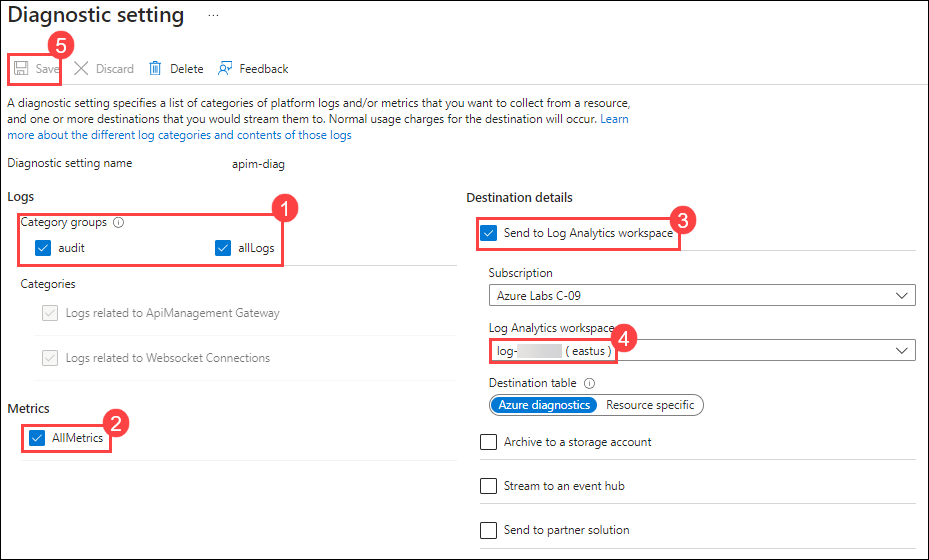
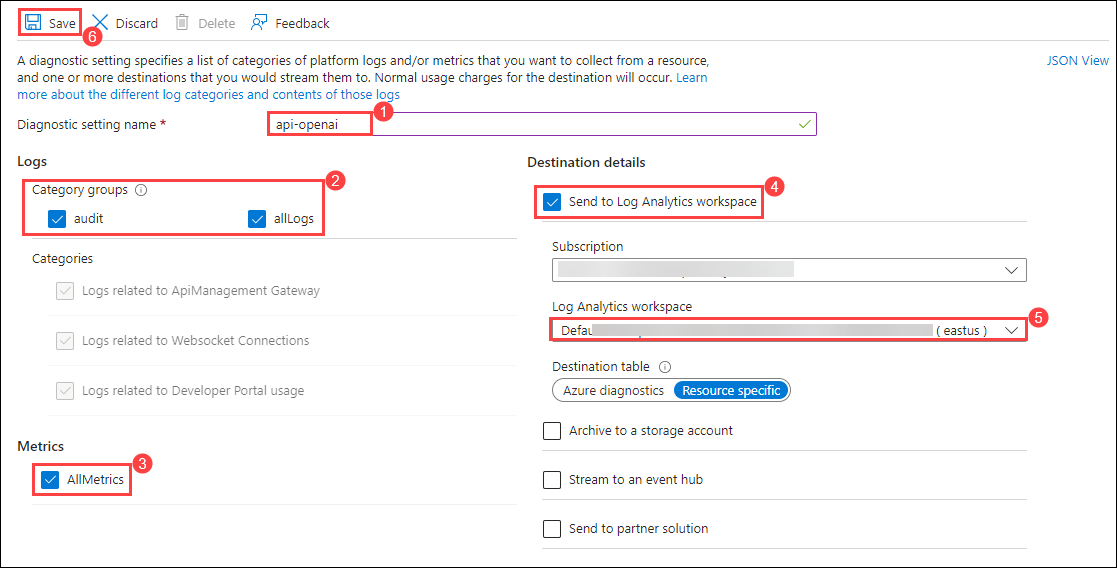
update

diff --git a/Coach/Solution-Guide/Challenge-6.md b/Coach/Solution-Guide/Challenge-6.md
@@ -193,101 +193,102 @@ Creating a diagnostic setting and linking Azure OpenAI to a log analytics worksp
 
    ![](../media/4-7.png)
 
-6. Select **Named Values (1)** under the **API** section in the left navigation pane of the API Management Service, and then click on **+ Add (2)**.
+6. In the API Management service, click on **APIs** **(1)** under APIs from the left menu and select **HTTP** **(2)** under Define a new API to create an HTTP API.
 
-   ![](../media/4-8.png)
+   ![](../media/lab3-t1-s2.png)
 
-7. Within the **Add named values** pane,
-    - **Name:** AOAI-key **(1)**
-    - **Display Name:** AOAI-key **(2)**
-    - **Type:** Select **Secret (3)**
-    - **Value:** Enter the Azure OpenAI key that you had earlier copied onto a notepad **(4)**.
-    - Click on **Save (4)**.
+7. Enter the following values in the Create an HTTP API pane:
+   
+   | **Parameter**           | **Values**           | 
+   | ----------------------- | -------------------- | 
+   | API Type **(1)**        | **Basic**            | 
+   | Display name **(2)**    | **miyagi-api**       |
+   | Name **(3)**            | **miyagi-api**       |
+   | Web service URL **(4)** | Enter the Endpoint of Azure OpenAI Endpoint |
+   | API URL suffix **(5)**  | **openai** |
+   | Click on  **(6)**       | **Create** |
 
-   ![](../media/named-values-apim-1.png)
+   ![](../media/apim1.png)
 
-8. Select **Backends (1)** under the **API** section in the left navigation pane of the API Management Service, and then click on **+ Add (2)**.
+8. In the API Management service, click on **APIs** **(1)**, click on the **three dots** **(2)** next to miyagi-api, select **Import** **(3)**, and click on **OpenAPI** **(4)**.
 
-   ![](../media/4-9.png)
+   ![](../media/api-openi-import.png)
 
-9. Within the **Backend** configuration pane, enter the following details:
-    -  **Name:** AOAI-endpoint **(1)**
-    -  **Type:** Ensure to select **Custom URL (2)**
-    -  **Runtime URL:** Enter the Azure OpenAI endpoint that you had earlier copied onto a notepad **(3)**.
-
-          > **Note**: Please ensure to add '/openai' towards the end of the URL.
-       
-    -  Under the **Headers** tab,
-        - **Name:** api-key **(4)**
-        - **Value:** Click on **Select named value (5)**.
-            - Within the **Specify value** pane that shows up, enter the following details:
-                - **Input type:** Select **Named value (6)**.
-                - **Name:** Select the **AOAI-key (7)** named value that you created earlier in this task. Notice that the **Value** field is automatically                        populated.
-                - Click on **OK (8)**.
-    - Click on **Create (9)**.
-
-      ![](../media/backends-apim-1.png)
-
-      ![](../media/backends-apim-2.png)
-
-10. To add a new API to the API Management service, follow the steps below:
-    -  Select **APIs (1)** under the **APIs** section within the left navigation pane of the APIM blade.
-    -  Select the **Import (2)** option from one of the existing APIs.
-    -  Within the **Import API** pane, select **OpenAPI (3)**.
-
-      ![](../media/4-10.png)
-
-      ![](../media/import-api-1.png)
-
-11. Within the **Import from OpenAPI specification** pop-up window, enter and configure the following details:
+9. Within the **Import from OpenAPI specification** pop-up window, enter and configure the following details:
     - **OpenAPI specification:** `https://raw.githubusercontent.com/Azure/azure-rest-api-specs/main/specification/cognitiveservices/data-plane/AzureOpenAI/inference/stable/2023-05-15/inference.json` **(1)**
     - **Import method:** Select **Update (2)**
     - Click on **Import (3)** to update the existing API with the above OpenAPI specification.
 
-    ![](../media/import-api-2.png)
+      ![](../media/import-api-2.png)
 
->**Note:**  The OpenAPI specification is a JSON file that contains the API specifications of Azure OpenAI. You can have a detailed look at the specifications by accessing the above-provided link for a deeper understanding and clarity.
+         > **Note:**  The OpenAPI specification is a JSON file that contains the API specifications of Azure OpenAI. You can have a detailed look at the specifications by accessing the above-provided link for a deeper understanding and clarity.
 
-12. Notice that a new API named **Azure OpenAI Service API** has been added under the **All APIs** section.
+10. Click on the newly added API and observe the presence of multiple POST operations based on the OpenAPI specification that was provided earlier.
 
-13. Click on the newly added API and observe the presence of multiple POST operations based on the OpenAPI specification that was provided earlier.
+    ![](../media/post-operations.png)
 
-       ![](../media/post-operations.png)
+11. In the **Azure OpenAI Service API** API navigate to the **Settings** **(1)** tab and update the subscription key **Header Name** to **api-key** **(2)** and click on **Save** **(3)**.
 
-14. To create a new policy with specific parameters, follow the below instructions:
+    ![](../media/azure-open-api-setting.png)
+
+12. In the API Management service, click on **Products** **(1)** under APIs from the left menu and click on **+ Add** **(2)**.
+
+    ![](../media/api-product1.png) 
+
+13. In the **Add product** display name as **OpenAi** **(1)**, description as **OpenAI** **(2)**. Under the APIs menu click the **plus sign** **(3)** select the **Azure OpenAI Service API** **(4)** hit Enter and click on **Create** **(5)**.
+
+     ![](../media/api-product2.png)
+
+14. In the API Management service, click on **subscriptions** **(1)** under APIs from the left menu and click on **+ Add subscription** **(2)**.
+
+    ![](../media/api-product3.png)
+
+15. In the **Add subscription**, enter the Name as **aoai-test** **(1)**, enter Display name as **AOAI Test** **(2)**, and click on **Create** **(3)**.
+
+    ![](../media/api-product4.png)
+
+16. To create a new policy with specific parameters, follow the below instructions:
+    
     - Select **All Operations (1)**.
     - Within the Inbound processing tile, click on the ellipses **(2)** adjacent to the **base** policy.
     - Click on **Code editor (3)**.
    
       ![](../media/allop.png)
 
-15. Within the code editor, create a new inbound policy by adding the following code at line 16:
+17. In the code editor copy the below policy to overwrite the **inbound** **(1)** tags only, replace **&lt;&lt;Azure_OpenAI_Endpoint&gt;&gt;** **(2)** of API manager which you copen in Task 1 Step 4 and click on **Save** **(3)**.
 
-    ```html
-    <set-backend-service backend-id="AOAI-endpoint" />
-    ```
+      ```
+      <inbound>
+         <base />
+         <set-header name="api-key" exists-action="delete" />
+         <authentication-managed-identity resource="https://cognitiveservices.azure.com" output-token-variable-name="msi-access-token" ignore-error="false" />
+         <set-header name="Authorization" exists-action="override">
+            <value>@("Bearer " + (string)context.Variables["msi-access-token"])</value>
+         </set-header>
+         <set-backend-service base-url="https://<<Azure_OpenAI_Endpoint>>/openai" />
+      </inbound>
+      ```
 
-    The final policy code should now be similar to the below screenshot:
+      ![](../media/api-inbound.png)
 
-       ![](../media/op2.png)
+      > **Note**: Please ensure to paste the **OpenAIEndpoint** values and eliminate any duplication of **https://**.
     
-   >**Note:** Here the value **AOAI-endpoint** refers to the newly created backend, pointing to the runtime URL—the Azure OpenAI endpoint.
-
-16. Click on **Save**. Notice that a new policy named **set-backend-service** has been added within the inbound processing tile.
+18. Click on **Save**. Notice that a new policy named **set-backend-service** has been added within the inbound processing tile.
     
-17. Navigate to **Diagnostic settings** in the left pane of the API management service.
+19. Navigate to **Diagnostic settings** in the left pane of the API management service.
 
-    ![](../media/diag1.png)
+    ![](../media/diag3.png)
 
-18. - Keep the category groups checked (1). <br>
-    - Keep the **All metrics** checked(2). <br>
-    - Keep the **Destination details** checked(3). <br>
-    - Make sure the log analytics workspace is selected(4). <br>
-    - Click on **Save (5)**.
+    - Provide a **Diagnostic setting name** (1)
+    - Keep the category groups checked (2). <br>
+    - Keep the **All metrics** checked(3). <br>
+    - Keep the **Destination details** checked(4). <br>
+    - Make sure the **log analytics workspace** is selected (5). <br>
+    - Click on **Save (6)**.
 
       ![](../media/diag2.png)
     
-19. Now that the API has been successfully added, it requires configuration to call the OpenAI API through the API Management Service, which can be done by following the below steps:
+20. Now that the API has been successfully added, it requires configuration to call the OpenAI API through the API Management Service, which can be done by following the below steps:
 
     - Select the newly added API **(1)**.
     - Click on the **Settings (2)** tab.
@@ -299,12 +300,6 @@ Creating a diagnostic setting and linking Azure OpenAI to a log analytics worksp
       
          ![](../media/diag-logs-configs-1.png)
       
-      >**Note:** Here the value **AOAI-endpoint** refers to the newly created backend, pointing to the runtime URL—the Azure OpenAI endpoint.
-
-20. Also, be sure to keep the **Subscription required** unchecked.
-
-      ![](../media/uncheck.png)   
-
 ### Task 3.2: Test the API to create completions for chat message
 
 1. To run a POST operation to test the functionality of the added API:
@@ -321,8 +316,8 @@ Creating a diagnostic setting and linking Azure OpenAI to a log analytics worksp
         ```
     - Click on **Send (7)**.
 
-    ![](../media/test-api-1.png)
-    ![](../media/test-api-2.png)
+      ![](../media/test-api-1.png)
+      ![](../media/test-api-2.png)
 
 2. Notice the **HTTP response** that is generated with the reply under the **message** tab:
 
